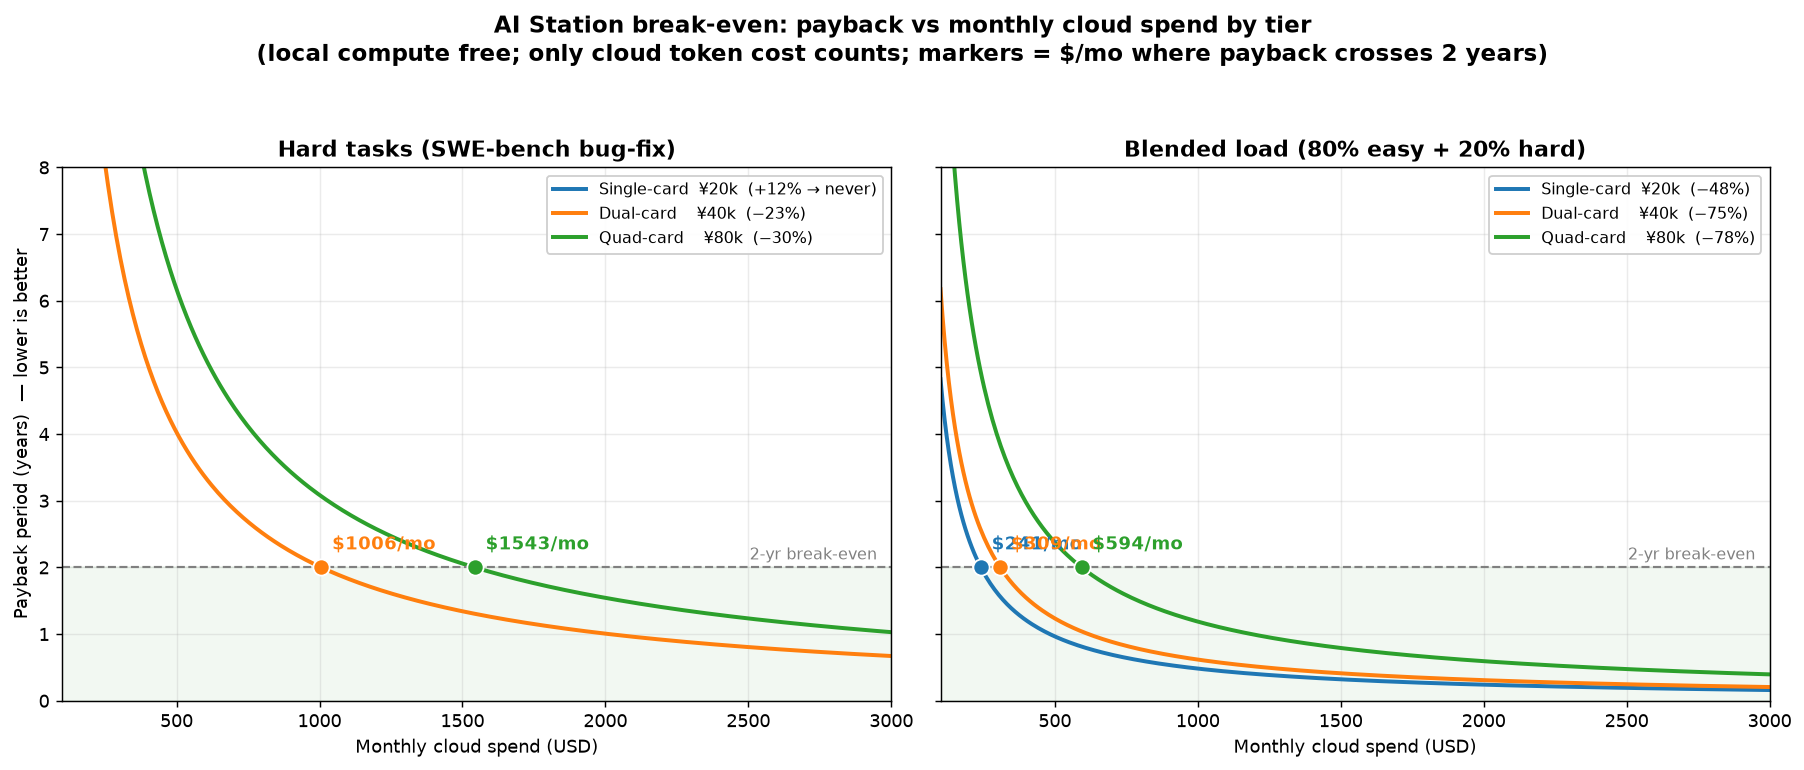
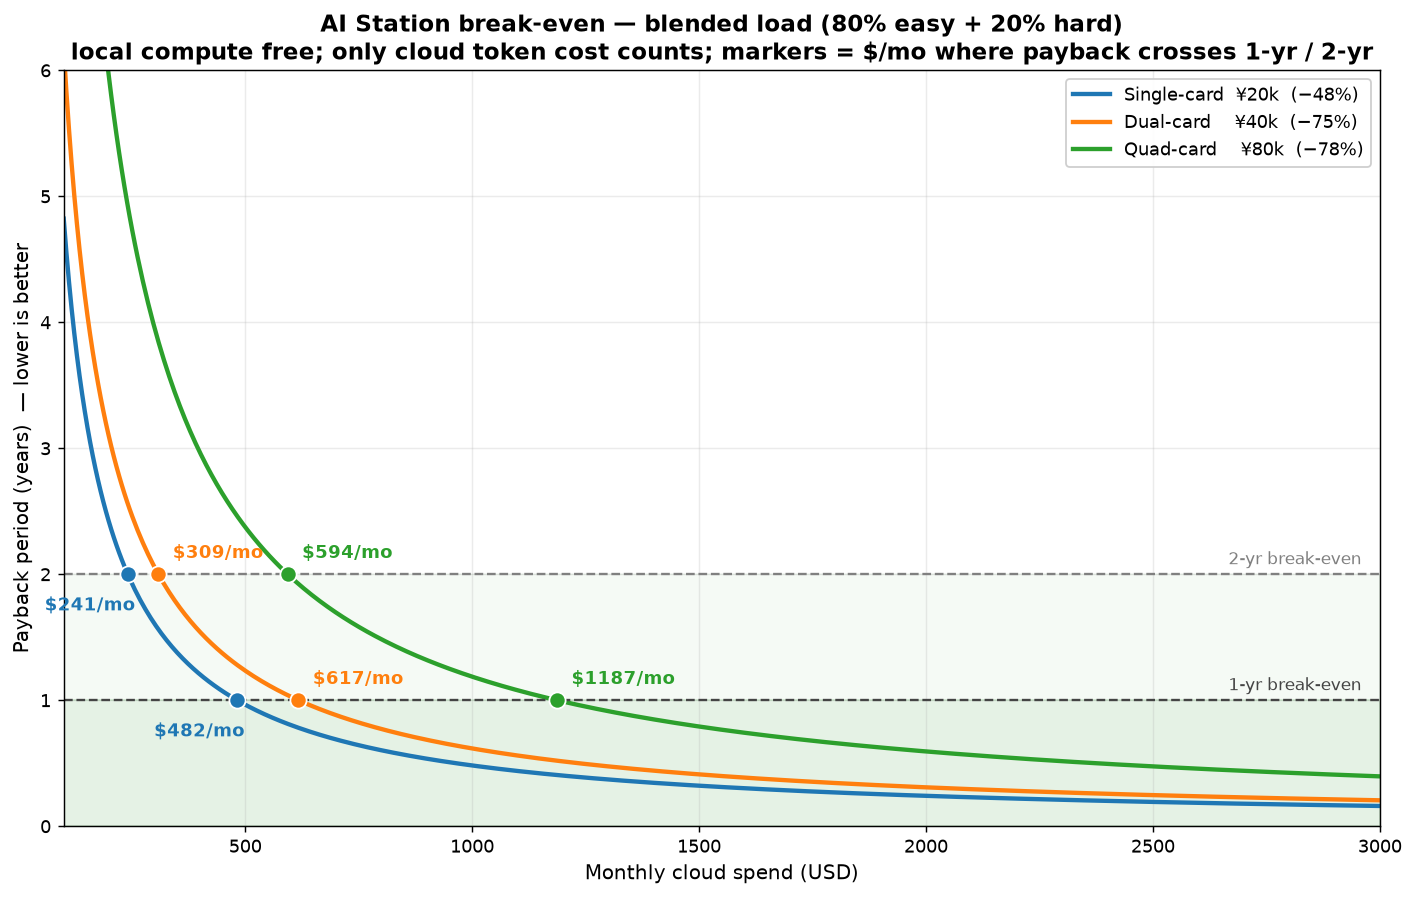
report: blended-only break-even chart with 1-yr + 2-yr turning points
Single panel (blended 80/20 load). Marks both thresholds per tier:
- 2-yr: single $241/mo, dual $309/mo, quad $594/mo
- 1-yr: single $482/mo, dual $617/mo, quad $1187/mo

Claude-Session: https://claude.ai/code/session_011mbziN2SXaXwC8jqYPUkQG

diff --git a/hybrid-demo/plot_breakeven.py b/hybrid-demo/plot_breakeven.py
@@ -1,80 +1,69 @@
 #!/usr/bin/env python3
-"""Payback-years vs monthly cloud spend, per hardware tier, with 2-year
-break-even turning points marked. Two panels: hard-task workload (where weak
-local backfires) vs realistic blended 80/20 workload."""
+"""Payback-years vs monthly cloud spend for the realistic BLENDED workload
+(80% easy + 20% hard), per hardware tier, with 1-year and 2-year break-even
+turning points marked."""
 import numpy as np
 import matplotlib
 matplotlib.use("Agg")
 import matplotlib.pyplot as plt
 
 FX = 7.2
-TARGET_YEARS = 2.0  # the "✅" break-even line
+TARGETS = [(2.0, "2-yr break-even", "gray"), (1.0, "1-yr break-even", "#444")]
 
-# (label, price¥, hard savings, blended-80/20 savings)
+# (label, price¥, blended-80/20 savings, color, label offset (x,y) pts)
 TIERS = [
-    ("Single-card  ¥20k", 20000, -0.12, 0.48, "#1f77b4"),
-    ("Dual-card    ¥40k", 40000,  0.23, 0.75, "#ff7f0e"),
-    ("Quad-card    ¥80k", 80000,  0.30, 0.78, "#2ca02c"),
+    ("Single-card  ¥20k", 20000, 0.48, "#1f77b4", (-46, -20)),
+    ("Dual-card    ¥40k", 40000, 0.75, "#ff7f0e", (8, 9)),
+    ("Quad-card    ¥80k", 80000, 0.78, "#2ca02c", (8, 9)),
 ]
 
-monthly = np.linspace(100, 3000, 400)
+monthly = np.linspace(100, 3000, 500)
 
 
 def payback(rmb, m, s):
-    hw = rmb / FX
-    return np.where(s > 0, hw / (m * 12 * s), np.nan)
+    return (rmb / FX) / (m * 12 * s)
 
 
-def breakeven_month(rmb, s):
-    return (rmb / FX) / (TARGET_YEARS * 12 * s) if s > 0 else None
+def breakeven_month(rmb, s, years):
+    return (rmb / FX) / (years * 12 * s)
 
 
-fig, axes = plt.subplots(1, 2, figsize=(14, 6), sharey=True)
+fig, ax = plt.subplots(figsize=(11, 7))
 
-for ax, (title, idx) in zip(axes, [("Hard tasks (SWE-bench bug-fix)", 2),
-                                    ("Blended load (80% easy + 20% hard)", 3)]):
-    for label, rmb, hard, blend, color in TIERS:
-        s = hard if idx == 2 else blend
-        if s <= 0:
-            ax.plot([], [], color=color, lw=2.2,
-                    label=f"{label}  (+{int(-s*100)}% → never)")
-            continue
-        y = payback(rmb, monthly, s)
-        ax.plot(monthly, y, color=color, lw=2.2,
-                label=f"{label}  (−{int(s*100)}%)")
-        bx = breakeven_month(rmb, s)
-        if bx and bx <= 3000:
-            ax.plot([bx], [TARGET_YEARS], "o", color=color, ms=9,
+for label, rmb, s, color, off in TIERS:
+    ax.plot(monthly, payback(rmb, monthly, s), color=color, lw=2.4,
+            label=f"{label}  (−{int(s*100)}%)")
+    for years, _, _ in TARGETS:
+        bx = breakeven_month(rmb, s, years)
+        if bx <= 3000:
+            ax.plot([bx], [years], "o", color=color, ms=9,
                     markeredgecolor="white", zorder=5)
-            ax.annotate(f"${bx:.0f}/mo", (bx, TARGET_YEARS),
-                        textcoords="offset points", xytext=(6, 10),
+            ax.annotate(f"${bx:.0f}/mo", (bx, years),
+                        textcoords="offset points", xytext=off,
                         color=color, fontsize=10, fontweight="bold")
 
-    ax.axhline(TARGET_YEARS, ls="--", color="gray", lw=1.2)
-    ax.text(2950, TARGET_YEARS + 0.12, "2-yr break-even", ha="right",
-            color="gray", fontsize=9)
-    ax.axhspan(0, TARGET_YEARS, color="green", alpha=0.05)
-    ax.set_title(title, fontsize=12, fontweight="bold")
-    ax.set_xlabel("Monthly cloud spend (USD)")
-    ax.set_xlim(100, 3000)
-    ax.set_ylim(0, 8)
-    ax.grid(alpha=0.25)
-    ax.legend(loc="upper right", fontsize=9, framealpha=0.95)
+for years, txt, c in TARGETS:
+    ax.axhline(years, ls="--", color=c, lw=1.3)
+    ax.text(2960, years + 0.08, txt, ha="right", color=c, fontsize=9.5)
 
-axes[0].set_ylabel("Payback period (years)  — lower is better")
-fig.suptitle("AI Station break-even: payback vs monthly cloud spend by tier\n"
-             "(local compute free; only cloud token cost counts; markers = $/mo "
-             "where payback crosses 2 years)",
-             fontsize=13, fontweight="bold")
-fig.tight_layout(rect=[0, 0, 1, 0.94])
+ax.axhspan(0, 1.0, color="green", alpha=0.10)
+ax.axhspan(1.0, 2.0, color="green", alpha=0.04)
+ax.set_xlabel("Monthly cloud spend (USD)", fontsize=11)
+ax.set_ylabel("Payback period (years)  — lower is better", fontsize=11)
+ax.set_xlim(100, 3000)
+ax.set_ylim(0, 6)
+ax.grid(alpha=0.25)
+ax.legend(loc="upper right", fontsize=10, framealpha=0.95)
+ax.set_title("AI Station break-even — blended load (80% easy + 20% hard)\n"
+             "local compute free; only cloud token cost counts; "
+             "markers = $/mo where payback crosses 1-yr / 2-yr",
+             fontsize=12.5, fontweight="bold")
+fig.tight_layout()
 out = "/home/user/AI-Agent/hybrid-demo/breakeven.png"
 fig.savefig(out, dpi=130, bbox_inches="tight")
 print("wrote", out)
 
-# print the turning points for the report
-print("\n2-year break-even monthly spend:")
-for label, rmb, hard, blend, _ in TIERS:
-    h = breakeven_month(rmb, hard)
-    b = breakeven_month(rmb, blend)
-    print(f"  {label}: hard={'never' if not h else f'${h:.0f}/mo'} | "
-          f"blended=${b:.0f}/mo")
+print("\nBlended-load break-even monthly spend:")
+for label, rmb, s, *_ in TIERS:
+    print(f"  {label}: 2-yr ${breakeven_month(rmb, s, 2):.0f}/mo | "
+          f"1-yr ${breakeven_month(rmb, s, 1):.0f}/mo")
